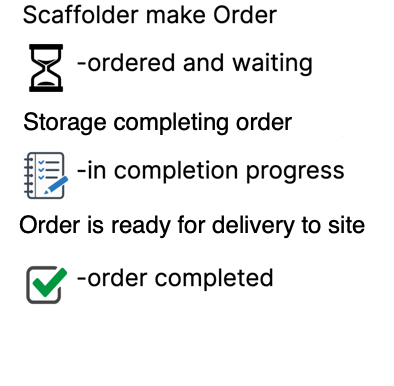
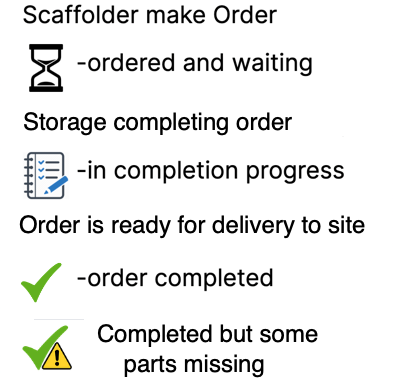
missing parts added to storage

Changed region(s): [[0.2437, 0.8394, 0.8223, 0.9948], [0.0609, 0.6839, 0.1827, 0.8083], [0.0609, 0.8394, 0.1827, 0.9637]]

diff --git a/config/routes.rb b/config/routes.rb
@@ -19,6 +19,7 @@ Rails.application.routes.draw do
     member do
       get :complete
       get :set_to_pending
+      get :set_to_missing_parts
     end
   end
  
@@ -34,6 +35,7 @@ Rails.application.routes.draw do
         get :in_progress_orders
         get :all_orders
         get :search_orders
+        get :missing_parts_orders
       end
     end
   end
@@ -46,6 +48,7 @@ Rails.application.routes.draw do
       get :in_progress_orders
       get :all_orders
       get :search_orders
+      get :missing_parts_orders
       get :your_orders
     end
   end

diff --git a/app/controllers/orders_controller.rb b/app/controllers/orders_controller.rb
@@ -63,6 +63,12 @@ class OrdersController < ApplicationController
     redirect_to request.referer || warehouse_storages_path, notice: "Order set to Pending"
   end
 
+  def set_to_missing_parts
+    @order = Order.find(params[:id])
+    @order.missing_parts!
+    redirect_to request.referer || warehouse_storages_path, notice: "Order set to Missing Parts"
+  end
+
   def set_to_pending
     @order = Order.find(params[:id])
     @order.pending!

diff --git a/app/admin/orders.rb b/app/admin/orders.rb
@@ -65,7 +65,7 @@ ActiveAdmin.register Order do
       f.input :new_delivery_date
       f.input :info
       f.input :car_number
-      f.input :status, as: :select, collection: %w[pending in_progress completed], include_blank: false
+      f.input :status, as: :select, collection: %w[pending in_progress completed missing_parts], include_blank: false
       # Dodaj tutaj inne pola, które chcesz wyświetlić
     end
 

diff --git a/app/models/order.rb b/app/models/order.rb
@@ -16,7 +16,7 @@ class Order < ApplicationRecord
 
   accepts_nested_attributes_for :order_lists
 
-  enum status: { pending: 'Pending', in_progress: 'In Progress', completed: 'Completed' }
+  enum status: { pending: 'Pending', in_progress: 'In Progress', completed: 'Completed', missing_parts: "Missing Parts" }
 
   def set_default_status
     self.status ||= "pending"

diff --git a/app/controllers/tracking/orders_controller.rb b/app/controllers/tracking/orders_controller.rb
@@ -75,8 +75,13 @@ module Tracking
       render :index
     end
     
+    def missing_parts_orders
+      @orders = Order.where(status: 'missing_parts').order(created_at: :desc).limit(100)
+      @status = 'missing parts'
+      render :index
+    end
     
-      
+    
 
     private
 

diff --git a/app/controllers/warehouse/storages_controller.rb b/app/controllers/warehouse/storages_controller.rb
@@ -84,7 +84,11 @@ module Warehouse
       render :index
     end
     
- 
+    def missing_parts_orders
+      @orders = Order.where(status: 'missing_parts').order(created_at: :desc).limit(100)
+      @status = 'missing parts'
+      render :index
+    end
   
 
     private
